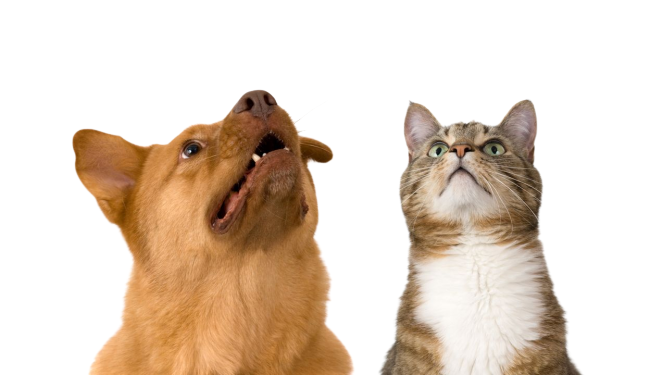
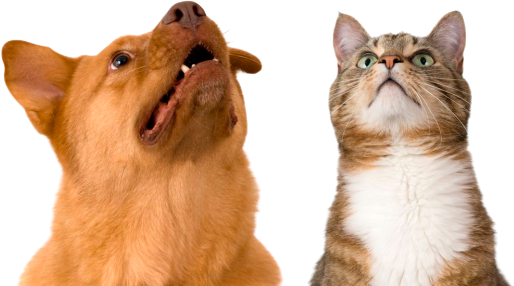
Change footer layout

diff --git a/src/components/partials/Footer.vue b/src/components/partials/Footer.vue
@@ -1,14 +1,14 @@
 <template>
   <footer class="footer">
     <container>
-      <div class="flex flex-column">
+      <div class="flex flex-column justify-center">
         <span>{{ mailAddress }}</span>
         <social :networks="['facebook', 'instagram', 'twitter']" />
       </div>
       <div class="footer-image">
         <img src="../../assets/img/dog-and-cat-footer.png">
       </div>
-      <div class="flex flex-column">Lorem ipsum dolor sit amet consectetur, adipisicing elit. Architecto veniam ipsam voluptatem quod deserunt nisi alias voluptas saepe eos, molestiae soluta eum, sed earum inventore expedita? Amet, nemo quos. Repellat?</div>
+      <div class="flex flex-column justify-center">Lorem ipsum dolor sit amet consectetur, adipisicing elit. Architecto veniam ipsam voluptatem quod deserunt nisi alias voluptas saepe eos, molestiae soluta eum, sed earum inventore expedita? Amet, nemo quos. Repellat?</div>
     </container>
   </footer>
 </template>
@@ -32,7 +32,18 @@ export default {
   footer {
     background-color: #FFF;
     color: #6F6F6F;
-    // padding-bottom: 40px;
+    padding-top: 60px;
+    .container {
+      display: grid;
+      grid-template-columns: 1fr 330px 1fr;
+      grid-column-gap: 40px;
+    }
+
+    .footer-image {
+      img {
+        width: 100%;
+      }
+    }
 
     .icon-social {
       width: 30px;

diff --git a/src/assets/scss/global.scss b/src/assets/scss/global.scss
@@ -12,4 +12,7 @@
     &.space-between {
         justify-content: space-between;
     }
+    &.justify-center {
+        justify-content: center;
+    }
 }
